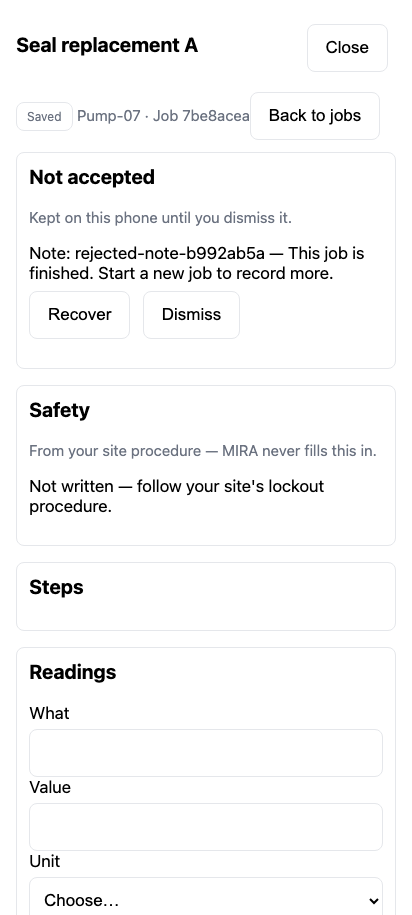
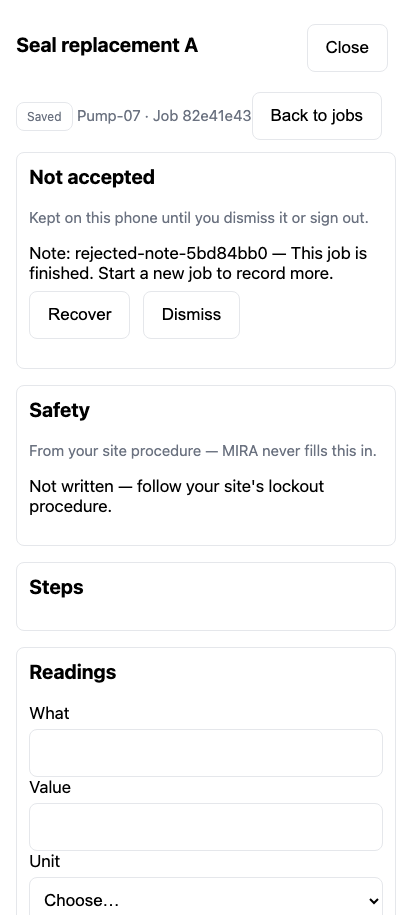
fix(hub): say a kept sheet rejection also leaves on sign-out (#5212)
Claude-Session: https://claude.ai/code/session_01HZ4euNRGtYQWT6948SCUJS

diff --git a/mira-hub/src/factorylm-ui/LivingSheet.tsx b/mira-hub/src/factorylm-ui/LivingSheet.tsx
@@ -405,7 +405,7 @@ function NotAcceptedSection({
   return (
     <section style={SECTION_STYLE} data-testid="living-sheet-not-accepted">
       <h3 style={{ marginTop: 0 }}>Not accepted</h3>
-      <p style={{ fontSize: "15px", color: "var(--fl-muted)" }}>Kept on this phone until you dismiss it.</p>
+      <p style={{ fontSize: "15px", color: "var(--fl-muted)" }}>Kept on this phone until you dismiss it or sign out.</p>
       {error && <p role="alert">{error}</p>}
       {rows.map((r) => (
         <p key={r.event.clientEventId} role="alert">
